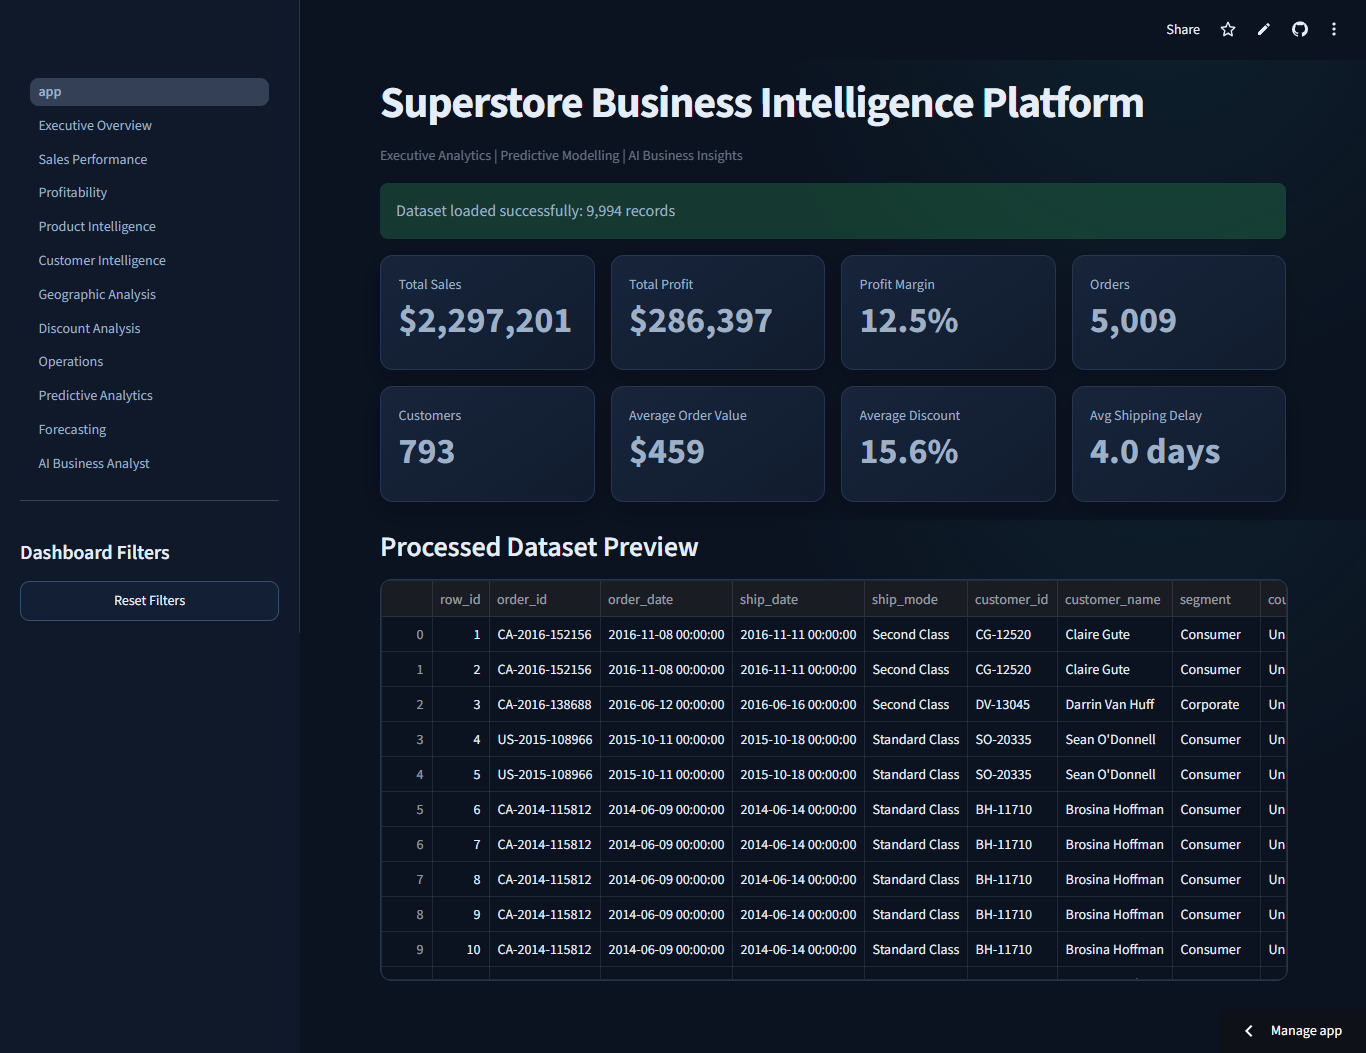
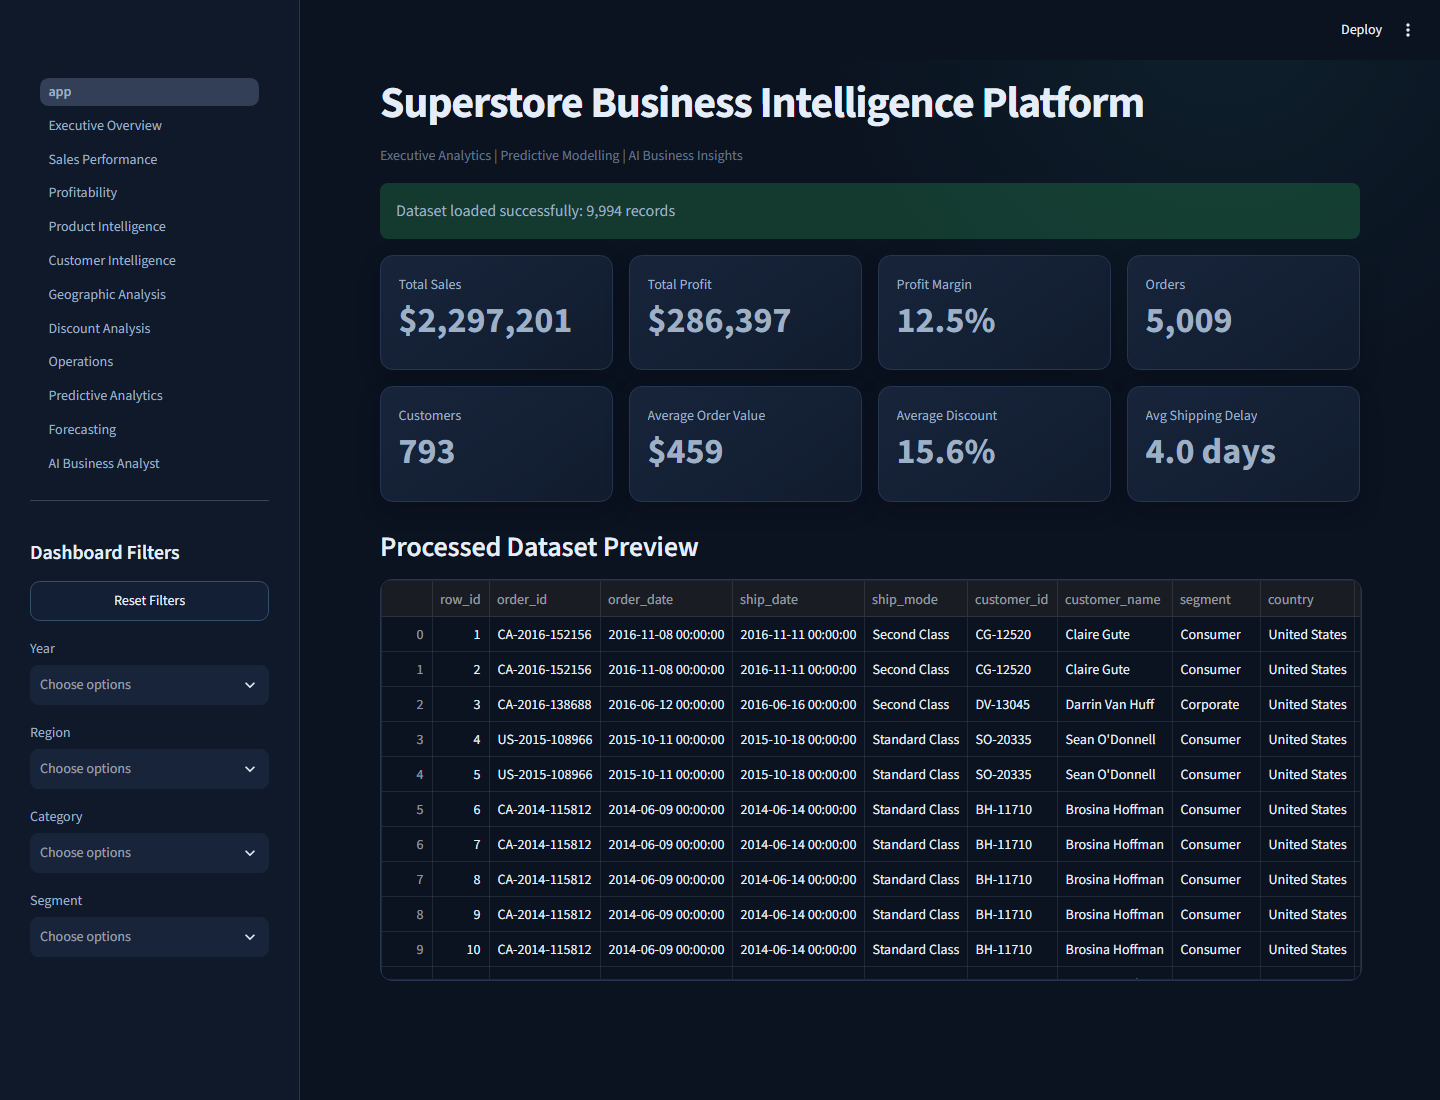
Add platform home screenshot to README

diff --git a/README.md b/README.md
@@ -7,6 +7,14 @@ AI-assisted business analysis.
 
 **Live application:** [superstore-business-intelligence.streamlit.app](https://superstore-business-intelligence.streamlit.app)
 
+## Platform Home
+
+The Home page provides immediate confirmation that the dataset loaded correctly,
+summarizes the principal business KPIs, exposes the shared dashboard filters, and
+provides a preview of the processed transaction data used throughout the platform.
+
+![Superstore Business Intelligence Home](assets/screenshots/00-Home.png)
+
 ---
 
 ## Executive Summary
